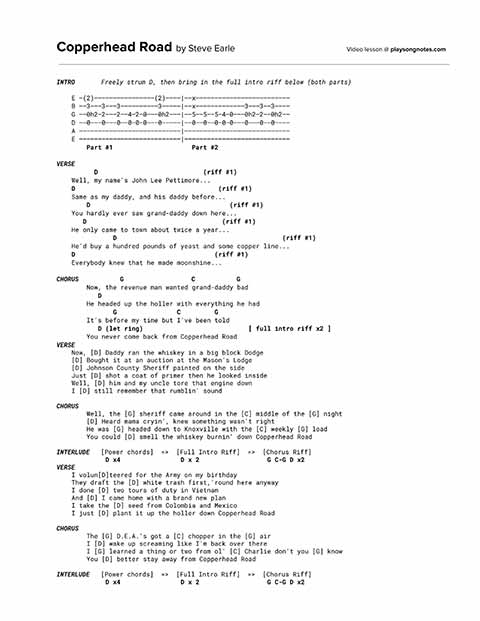
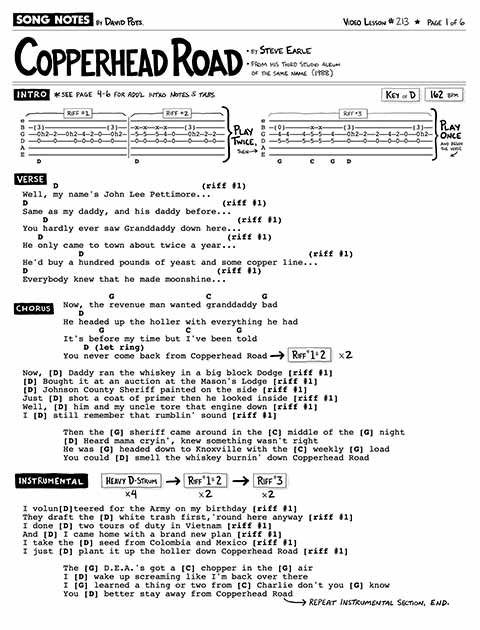
Adds 213 mn

Changed region(s): [[0.0312, 0.0, 0.9688, 0.9791]]

diff --git a/_lessons/213 [Steve Earle] Copperhead Road.md b/_lessons/213 [Steve Earle] Copperhead Road.md
@@ -11,9 +11,9 @@ slug: "213"
 tags: [Full Song Lesson, Key of D, Country, 1980s]
 redirect_from:
   - /songs/steve-earle-copperhead-road/
-#pdf_version: v1
-pdf_version: copyright
-pdf_numpages: 4
+pdf_version: musicnotes
+pdf_numpages: 6
+musicnotes_url: https://www.musicnotes.com/l/HVzMP
 patreon_lesson_available: true
 patreon_lesson_url: https://www.patreon.com/posts/35741438
 ---
@@ -44,109 +44,121 @@ Video timestamps:
 
 ## Lyrics with chords
 
-    INTRO
-        Freely strum D, then bring in the full intro riff below (both parts)
+    See sheet music (page 1) for all lyrics with chords and intro riff included.
 
-        Full intro riff:
-        E –(2)––––––––––––––––(2)––––|––x–––––––––––––––––––––––––
-        B ––3–––3–––3––––––––––3–––––|––x–––––––––––––3–––3––3––––
-        G ––0h2–2–––2––4–2–0–––0h2–––|––5––5––5–4–0–––0h2–2––0h2––
-        D ––0–––0–––0––0–0–0–––0–––––|––0––0––0–0–0–––0–––0––0––––
-        A –––––––––––––––––––––––––––|––––––––––––––––––––––––––––
-        E –––––––––––––––––––––––––––|––––––––––––––––––––––––––––
-            Part #1                     Part #2
+<!-- INTRO
+    Freely strum D, then bring in the full intro riff below (both parts)
 
-    VERSE
-              D                            (riff #1)
-        Well, my name's John Lee Pettimore...
-        D                                      (riff #1)
-        Same as my daddy, and his daddy before...
-            D                                     (riff #1)
-        You hardly ever saw Grand daddy down here...
-           D                                    (riff #1)
-        He only came to town about twice a year...
-                   D                                            (riff #1)
-        He'd buy a hundred pounds of yeast and some copper line...
+    Full intro riff:
+    E –(2)––––––––––––––––(2)––––|––x–––––––––––––––––––––––––
+    B ––3–––3–––3––––––––––3–––––|––x–––––––––––––3–––3––3––––
+    G ––0h2–2–––2––4–2–0–––0h2–––|––5––5––5–4–0–––0h2–2––0h2––
+    D ––0–––0–––0––0–0–0–––0–––––|––0––0––0–0–0–––0–––0––0––––
+    A –––––––––––––––––––––––––––|––––––––––––––––––––––––––––
+    E –––––––––––––––––––––––––––|––––––––––––––––––––––––––––
+        Part #1                     Part #2
+
+VERSE
+          D                            (riff #1)
+    Well, my name's John Lee Pettimore...
+    D                                      (riff #1)
+    Same as my daddy, and his daddy before...
         D                                     (riff #1)
-        Everybody knew that he made moonshine...
+    You hardly ever saw Grand daddy down here...
+       D                                    (riff #1)
+    He only came to town about twice a year...
+               D                                            (riff #1)
+    He'd buy a hundred pounds of yeast and some copper line...
+    D                                     (riff #1)
+    Everybody knew that he made moonshine...
 
-    CHORUS           G                  C           G
-            Now, the revenue man wanted grand daddy bad
-               D
-            He headed up the holler with everything he had
-                   G                C         G
-            It's before my time but I've been told
-               D (let ring)                            [ full intro riff x2 ]
-            You never come back from Copperhead Road
-    VERSE
+CHORUS           G                  C           G
+        Now, the revenue man wanted grand daddy bad
+           D
+        He headed up the holler with everything he had
+               G                C         G
+        It's before my time but I've been told
+           D (let ring)                            [ full intro riff x2 ]
+        You never come back from Copperhead Road
+VERSE
 
-        Now, [D] Daddy ran the whiskey in a big block Dodge
-        [D] Bought it at an auction at the Mason's Lodge
-        [D] Johnson County Sheriff painted on the side
-        Just [D] shot a coat of primer then he looked inside
-        Well, [D] him and my uncle tore that engine down
-        I [D] still remember that rumblin' sound
+    Now, [D] Daddy ran the whiskey in a big block Dodge
+    [D] Bought it at an auction at the Mason's Lodge
+    [D] Johnson County Sheriff painted on the side
+    Just [D] shot a coat of primer then he looked inside
+    Well, [D] him and my uncle tore that engine down
+    I [D] still remember that rumblin' sound
 
-            Well, the [G] sheriff came around in the [C] middle of the [G] night
-            [D] Heard mama cryin', knew something wasn't right
-            He was [G] headed down to Knoxville with the [C] weekly [G] load
-            You could [D] smell the whiskey burnin' down Copperhead Road
+        Well, the [G] sheriff came around in the [C] middle of the [G] night
+        [D] Heard mama cryin', knew something wasn't right
+        He was [G] headed down to Knoxville with the [C] weekly [G] load
+        You could [D] smell the whiskey burnin' down Copperhead Road
 
-    INTERLUDE
-                [Power chords]  =>  [Full Intro Riff]  =>  [Chorus Riff]
-                 D x4                D x 2                  G C-G D x2
-    VERSE
+INTERLUDE
+            [Power chords]  =>  [Full Intro Riff]  =>  [Chorus Riff]
+             D x4                D x 2                  G C-G D x2
+VERSE
 
-        I volun[D]teered for the Army on my birthday
-        They draft the [D] white trash first,'round here anyway
-        I done [D] two tours of duty in Vietnam
-        And [D] I came home with a brand new plan
-        I take the [D] seed from Colombia and Mexico
-        I just [D] plant it up the holler down Copperhead Road
+    I volun[D]teered for the Army on my birthday
+    They draft the [D] white trash first,'round here anyway
+    I done [D] two tours of duty in Vietnam
+    And [D] I came home with a brand new plan
+    I take the [D] seed from Colombia and Mexico
+    I just [D] plant it up the holler down Copperhead Road
 
-    CHORUS
-            The [G] D.E.A.'s got a [C] chopper in the [G] air
-            I [D] wake up screaming like I'm back over there
-            I [G] learned a thing or two from ol' [C] Charlie don't you [G] know
-            You [D] better stay away from Copperhead Road
+CHORUS
+        The [G] D.E.A.'s got a [C] chopper in the [G] air
+        I [D] wake up screaming like I'm back over there
+        I [G] learned a thing or two from ol' [C] Charlie don't you [G] know
+        You [D] better stay away from Copperhead Road
 
-    INTERLUDE
-                [Power chords]  =>  [Full Intro Riff]  =>  [Chorus Riff]
-                 D x4                D x 2                  G C-G D x2
+INTERLUDE
+            [Power chords]  =>  [Full Intro Riff]  =>  [Chorus Riff]
+             D x4                D x 2                  G C-G D x2 -->
 
-## Chords needed for this song
+## Chord Shapes: The Absolute Basics
 
-Big picture, this song only requires three chords (D G and C). At their most basic, they typically are played like this:
+Before I get deeper into the "riff" that makes up the bulk of this song, I wanted to quickly point out the chord shapes used. If you only care about strumming and don't need or want to play the riff -- then here's the only chords you'll need. Basic G-C-D. For the G and C, I show a few options below which might make the quick change (from G to C to G) easier for you.
 
-    E –––2–––3–––0–––
-    B –––3–––0–––1–––
-    G –––2–––0–––0–––
-    D –––0–––0–––2–––
-    A –––––––2–––3–––
-    E –––––––3–––––––
-         D   G   C
+    See sheet music for the chord diagrams.
 
-But there are a few items to note for this song. For one, when playing the D-major chord you may want to try to avoid the high E-string (either don't strum it, or don't press your left-hand finger down firmly on that string). This creates more of a neutral "power chord" sound to the D-chord, which fits the vibe of this song well. You'll also want to use this for the "power chord" part of the interludes.
+<!-- Normal versions:       ...with C/G voicing:              ...with Cadd9 voicing:
 
-    "Power chord" D major shape:
+E –––2–––3–––0–––      E –––2–––3–––3–––                 E –––2–––3–––3–––
+B –––3–––0–––1–––      B –––3–––0–––1–––                 B –––3–––3–––3–––
+G –––2–––0–––0–––      G –––2–––0–––0–––                 G –––2–––0–––0–––
+D –––0–––0–––2–––      D –––0–––0–––2–––                 D –––0–––0–––2–––
+A –––––––2–––3–––      A –––––––x–––x–––                 A –––––––2–––3–––
+E –––––––3–––––––      E –––––––3–––3–––                 E –––––––3–––––––
+     D   G   C              D   G  C/G                        D   G  Cadd9    -->
 
-    E –––x–––  <== don't play
-    B –––3–––  <== left ring finger
+## Chord Shapes: Essential Mods to the D-major
+
+Theres two important alternatives to the typical D-major chord I want to show you, before we move on. You could, in theory, use these when doing a simple strummed version. But they really prove their worth when we combine chords with the melodic riff, which I'll cover in the next section. The two chord voicings of note are:
+
+### The "power chord" voicing
+
+When playing the D-major chord you may want to try to avoid the high E-string (either don't strum it, or don't press your left-hand finger down firmly on that string). This creates more of a neutral, non-cheery "power chord" sound to the D-chord, which fits the vibe of this song well. This version also makes the melodic riff easier to play when strumming the D. This voicing also comes in handy for the "power chord" section of the interludes.
+
+    E –––x–––  <== don't play (or, mute w/ l. middle)
+    B –––3–––  <== left middle finger
     G –––2–––  <== left index finger
     D –––0–––
     A –––––––
     E –––––––
          D
 
-For the G and the C, there's a few ways you can mix them up as well. For example, you could replace the C with a "Cadd9" shape which makes the transition between the two chords a bit easier. Likewise, you could favor the 2nd, 3rd, and 4th strings to capture a bit of a higher (in pitch) voicing. These alternative voicings aren't required - but can be fun to learn and have in your pocket.
+### The "Add 5" voicing
 
-    E ––3–––3––         E –––––––––        E ––7–––8––
-    B ––3–––3––         B ––3–––5––        B ––8–––8––
-    G ––0–––0––         G ––4–––5––        G ––7–––9––
-    D ––0–––2––         D ––5–––5––        D –––––––––
-    A ––2–––3––         A –––––––––        A –––––––––
-    E ––3––––––         E –––––––––        E –––––––––
-        G  Cadd9            G   C              G   C
+Another voicing to consider, which is a bit trickier but sounds more full -- is adding your left pinky to the 3rd fret of the high-E string. If this is too much of a stretch, you can ignore this voicing and use the regular D or the "power chord" voicing shown above.
+
+    E –––5–––  <== left pinky finger
+    B –––3–––  <== left middle finger
+    G –––2–––  <== left index finger
+    D –––0–––
+    A –––––––
+    E –––––––
+         D
 
 ## Mastering the D-chord hammer-on
 
@@ -160,21 +172,21 @@ One crucial part of the D-major flourish heard in this song involves hammering o
     E ––––––––      that note ring cleanly (which is the ideal).
          D
 
-## Mastering the D-chord pinky stretch
+## Mastering the D-chord 4th fret stretch
 
-The other technique you'll need for the main riff (part 1) involves putting your pinky down on the 4th fret of the 3rd string. This can be tricky to do, especially when you're trying to keep all your other fingers in the D-major shape.
+In the first part of the main riff, you'll need to add a 4th fret note to the 3rd string. This requires a bit of a stretch with either your left pinky or left ring finger, depending on how you're playing the D. In both cases, keep your left index finger on the 2nd fret note (of the 3rd string) while adding the 4th fret note. This makes the riff easier to play.
 
-    E ––––––––x–––
-    B –––3––––3–––
-    G –––2––––4–––  <= add your left pinky on this 4th fret, while your
-    D –––0––––0–––     left index finger stays on the 2nd fret of the same
-    A ––––––––––––     string. Get good at moving between these two positions,
-    E ––––––––––––     slowly at first, before you attempt to play it fast.
-         D    D*
+    See sheet music for the chord diagrams.
 
-I have an entirely separate lesson on this topic, which I recommend. I explain a few different ways to practice this technique:
+<!-- L. Ring finger stretch                          L. Pinky finger stretch
 
-<iframe width="560" height="315" src="https://www.youtube.com/embed/UyZ6maC6FxM" frameborder="0" allow="accelerometer; autoplay; encrypted-media; gyroscope; picture-in-picture" allowfullscreen></iframe>
+E ––––––––––––                                  E –––2––––2–––
+B –––3––––3–––                                  B –––3––––3–––
+G –––2––––4–––                                  G –––2––––4–––
+D –––0––––0–––                                  D –––0––––0–––
+A ––––––––––––                                  A ––––––––––––
+E ––––––––––––                                  E ––––––––––––
+     D    D*                                         D    D*   -->
 
 ## Playing the intro riff with one finger
 
@@ -182,35 +194,53 @@ A great way to start off learning this song, especially if the main riff is givi
 
 First, start without the hammer-ons:
 
-    E –––––––––––––––––––––––––––|––––––––––––––––––––––––––––
-    B –––––––––––––––––––––––––––|––––––––––––––––––––––––––––
-    G ––2–––2–––2––4–2–0–––2–––––|––5––5––5–4–0–––0–––2––2––––  <== left index finger
-    D ––0–––0–––0––0–0–0–––0–––––|––0––0––0–0–0–––0–––0––0––––
-    A –––––––––––––––––––––––––––|––––––––––––––––––––––––––––
-    E –––––––––––––––––––––––––––|––––––––––––––––––––––––––––
-        Part 1                      Part 2
+    See sheet music for the tab.
+
+<!-- E –––––––––––––––––––––––––––|––––––––––––––––––––––––––––
+B –––––––––––––––––––––––––––|––––––––––––––––––––––––––––
+G ––2–2–––––2–––4–2–0–––2––––|––5––5––5–4–0–––0–––2––2––––  <== left index finger
+D ––0–0–––––0–––0–0–0–––0––––|––0––0––0–0–0–––0–––0––0––––
+A –––––––––––––––––––––––––––|––––––––––––––––––––––––––––
+E –––––––––––––––––––––––––––|––––––––––––––––––––––––––––
+    Part 1                      Part 2 -->
 
 Then, add the hammer-ons (2nd fret of 3rd string):
 
-    E –––––––––––––––––––––––––––|––––––––––––––––––––––––––––
-    B –––––––––––––––––––––––––––|––––––––––––––––––––––––––––
-    G ––0h2–2–––2––4–2–0–––0h2–––|––5––5––5–4–0–––0h2–2––0h2––  <== left index finger
-    D ––0–––0–––0––0–0–0–––0–––––|––0––0––0–0–0–––0–––0––0––––
-    A –––––––––––––––––––––––––––|––––––––––––––––––––––––––––
-    E –––––––––––––––––––––––––––|––––––––––––––––––––––––––––
-        Part 1                      Part 2
+    See sheet music for the tab.
 
-## Learning the full intro riff
+<!-- E –––––––––––––––––––––––––––|––––––––––––––––––––––––––––
+B –––––––––––––––––––––––––––|––––––––––––––––––––––––––––
+G ––0h2–2––––0h2–4–2–0––0h2––|––5––5––5–4–0–––0h2–2––2––––  <== left index finger
+D ––0–––0––––0–––0–0–0––0––––|––0––0––0–0–0–––0–––0––0––––
+A –––––––––––––––––––––––––––|––––––––––––––––––––––––––––
+E –––––––––––––––––––––––––––|––––––––––––––––––––––––––––
+    Part 1                      Part 2 -->
+
+## Adding strumming to the intro riff
 
 Once you have the simplified riff (above) worked out, here's the tab I'd recommend using for the "full" riff. One goal here is to put your left hand in the D-major shape, and not shy away from strumming the 2nd string. Likewise, you can keep your right hand strumming motion a bit more constant, and not be afraid to add in some delicate brushes on the strings as part of your natural rhythm. This may result in some strums that aren't accounted for in this tab - but that's okay!
 
-    E –(2)––––––––––––––––(2)––––|––x–––––––––––––––––––––––––
-    B ––3–––3–––3––––––––––3–––––|––x–––––––––––––3–––3––3––––
-    G ––0h2–2–––2––4–2–0–––0h2–––|––5––5––5–4–0–––0h2–2––0h2––
-    D ––0–––0–––0––0–0–0–––0–––––|––0––0––0–0–0–––0–––0––0––––
-    A –––––––––––––––––––––––––––|––––––––––––––––––––––––––––
-    E –––––––––––––––––––––––––––|––––––––––––––––––––––––––––
-        Part #1                     Part #2
+    See sheet music for the tab.
+
+<!-- E –––––––––––––––––––––––––––|––––––––––––––––––––––––––––
+B ––3–––3––––3–––3–3–3––3––––|––x––x––x–x–––––3–––3––3––––
+G ––0h2–2––––0h2–4–2–0––0h2––|––5––5––5–4–0–––0h2–2––2––––
+D ––0–––0––––0–––0–0–0––0––––|––0––0––0–0–0–––0–––0––0––––
+A –––––––––––––––––––––––––––|––––––––––––––––––––––––––––
+E –––––––––––––––––––––––––––|––––––––––––––––––––––––––––
+    Part 1                      Part 2 -->
+
+You can take this even further if you want, by adding your left pinky to the 5th fret of the high-E string (and playing the 4th fret notes on the G-string with your left ring finger). This is trickier, but sounds much more full.
+
+    See sheet music for the tab.
+
+<!-- E ––5–––5––––5–––5–5–5––5––––|––5––5––5–5–––––5–––5––5––––
+B ––3–––3––––3–––3–3–3––3––––|––x––x––x–x–––––3–––3––3––––
+G ––0h2–2––––0h2–4–2–0––0h2––|––5––5––5–4–0–––0h2–2––2––––
+D ––0–––0––––0–––0–0–0––0––––|––0––0––0–0–0–––0–––0––0––––
+A –––––––––––––––––––––––––––|––––––––––––––––––––––––––––
+E –––––––––––––––––––––––––––|––––––––––––––––––––––––––––
+    Part 1                      Part 2 -->
 
 ## Strumming pattern
 
